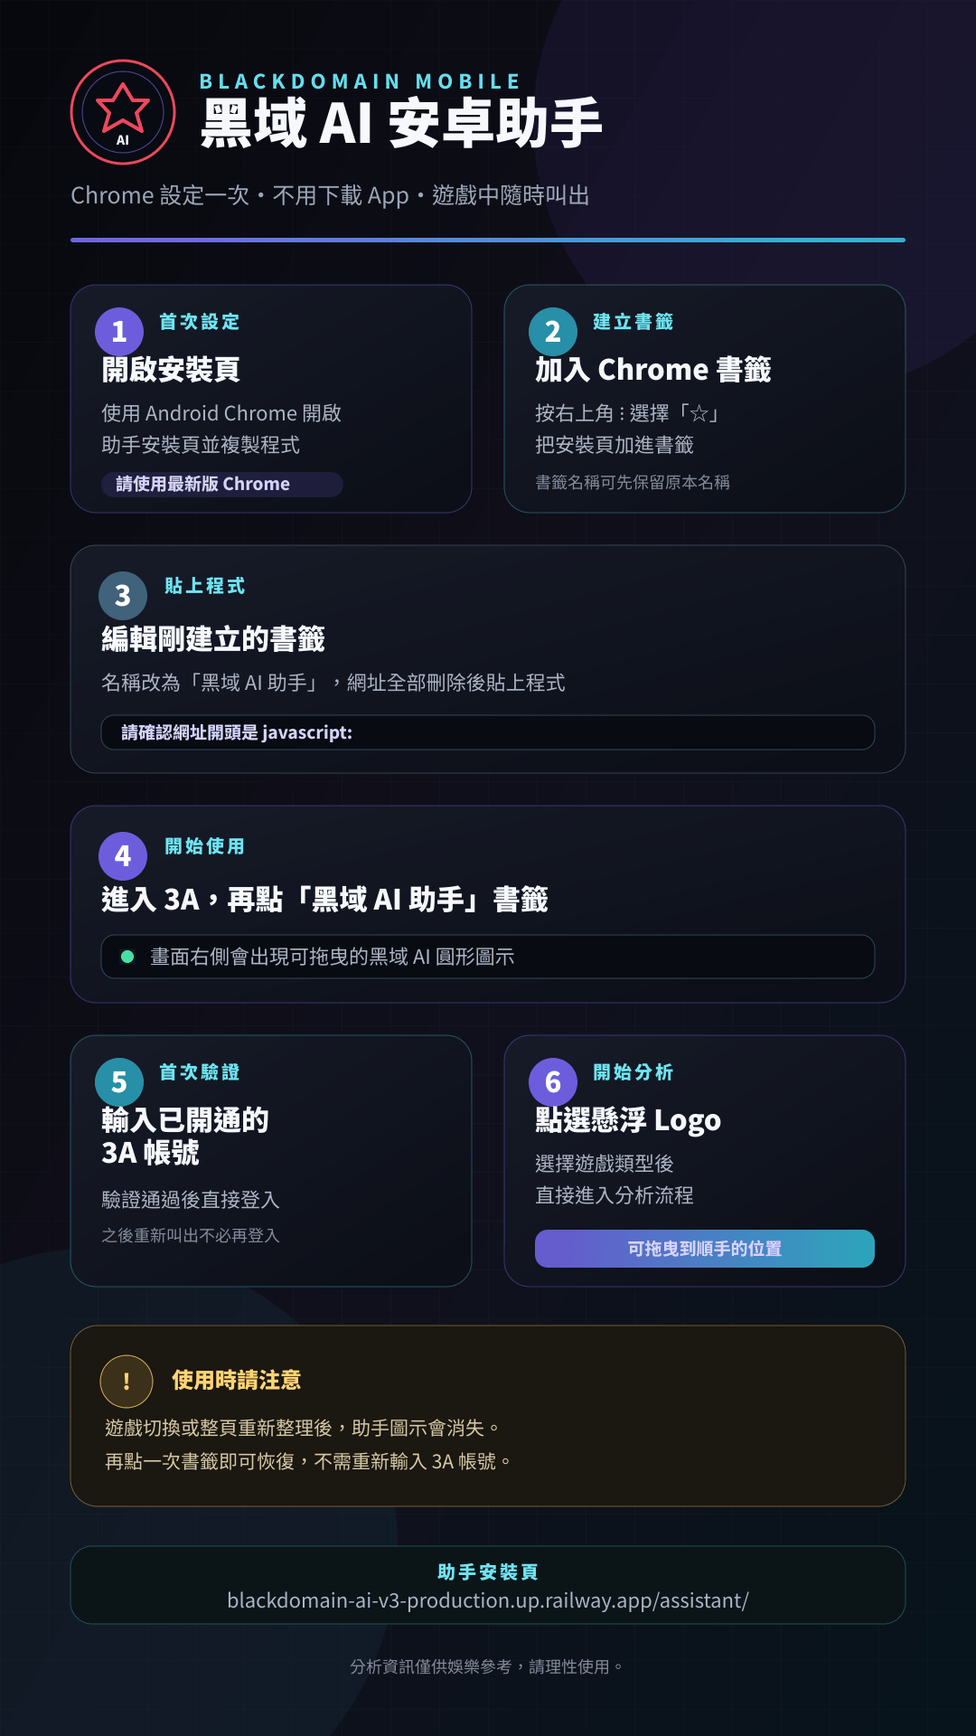
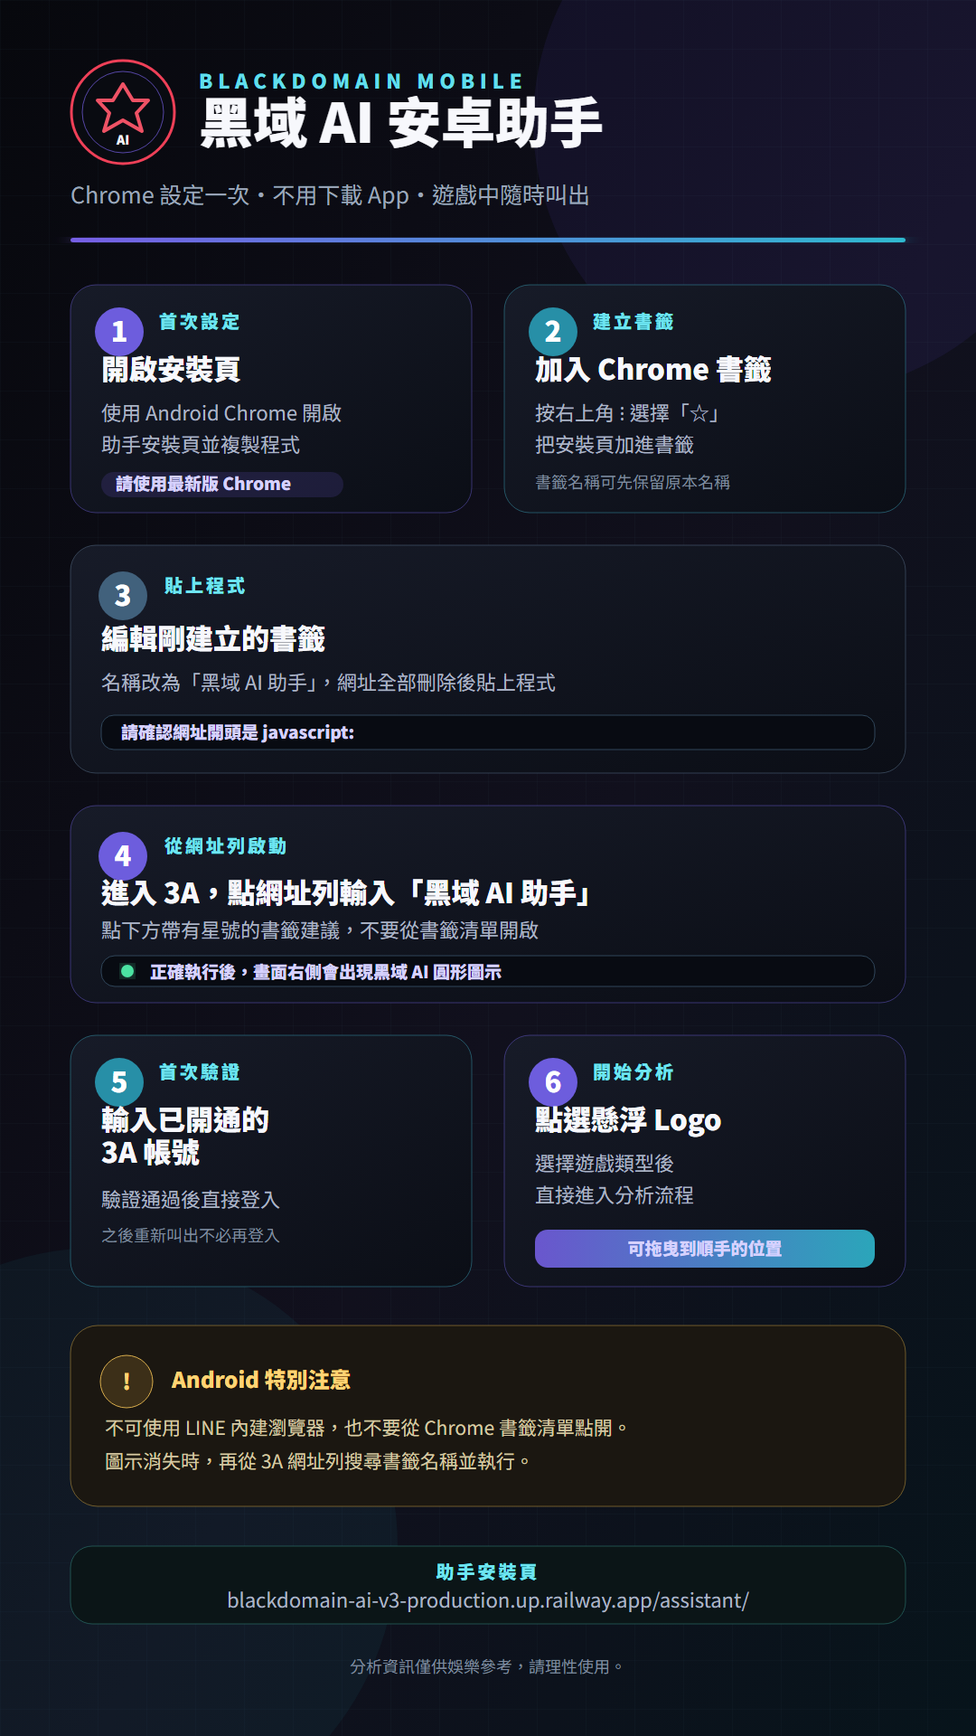
Fix Android assistant launch and ATG recovery

diff --git a/public/assistant/index.html b/public/assistant/index.html
@@ -7,8 +7,8 @@
   <meta name="theme-color" content="#07080c">
   <title>黑域 AI｜一鍵懸浮助手</title>
   <style>
-    *{box-sizing:border-box}body{margin:0;min-height:100vh;padding:calc(24px + env(safe-area-inset-top)) 20px calc(30px + env(safe-area-inset-bottom));background:radial-gradient(circle at 50% 0,#281016,#090b10 42%,#050609);color:#f7f8fb;font-family:system-ui,-apple-system,"Noto Sans TC",sans-serif}.wrap{width:min(100%,560px);margin:auto}.brand{display:flex;align-items:center;gap:13px;margin-bottom:28px}.brand img{width:58px;height:58px;border-radius:50%;box-shadow:0 0 28px #8d1c2d}.brand small{display:block;color:#ff6576;letter-spacing:.14em;font-size:10px}.brand b{display:block;margin-top:4px;font-size:20px}h1{margin:0;font-size:30px;line-height:1.2}.lead{margin:12px 0 24px;color:#aeb3be;line-height:1.7}.card{padding:20px;border:1px solid #3b3036;border-radius:20px;background:rgba(12,14,20,.92);box-shadow:0 24px 70px #000}.card h2{margin:0 0 14px;font-size:18px}.code{width:100%;height:86px;padding:12px;border:1px solid #343944;border-radius:12px;background:#07090d;color:#aeb5c2;resize:none;font-size:11px}.copy{width:100%;height:50px;margin-top:12px;border:0;border-radius:13px;background:linear-gradient(135deg,#ff5368,#b9142e);color:white;font-size:15px;font-weight:900}.status{min-height:20px;margin:9px 0 0;color:#6ff0bd;font-size:12px}.steps{margin-top:18px;padding:20px;border:1px solid #272c35;border-radius:18px;background:#090c12}.steps h2{margin:0 0 12px;font-size:17px}.steps ol{margin:0;padding-left:22px;color:#c3c7d0;line-height:1.9}.note{margin-top:18px;color:#727986;font-size:11px;line-height:1.65}.launch,.guide-download{display:block;margin-top:16px;padding:15px;border:1px solid #4a2730;border-radius:13px;color:#fff;text-align:center;text-decoration:none;font-weight:800}.guide{margin-top:18px;padding:12px;border:1px solid #272c35;border-radius:18px;background:#090c12}.guide img{display:block;width:100%;height:auto;border-radius:12px}.guide-download{margin:12px 0 0;border-color:#3c4657;background:#111620}
+    *{box-sizing:border-box}body{margin:0;min-height:100vh;padding:calc(24px + env(safe-area-inset-top)) 20px calc(30px + env(safe-area-inset-bottom));background:radial-gradient(circle at 50% 0,#281016,#090b10 42%,#050609);color:#f7f8fb;font-family:system-ui,-apple-system,"Noto Sans TC",sans-serif}.wrap{width:min(100%,560px);margin:auto}.brand{display:flex;align-items:center;gap:13px;margin-bottom:28px}.brand img{width:58px;height:58px;border-radius:50%;box-shadow:0 0 28px #8d1c2d}.brand small{display:block;color:#ff6576;letter-spacing:.14em;font-size:10px}.brand b{display:block;margin-top:4px;font-size:20px}h1{margin:0;font-size:30px;line-height:1.2}.lead{margin:12px 0 24px;color:#aeb3be;line-height:1.7}.card{padding:20px;border:1px solid #3b3036;border-radius:20px;background:rgba(12,14,20,.92);box-shadow:0 24px 70px #000}.card h2{margin:0 0 14px;font-size:18px}.code{width:100%;height:86px;padding:12px;border:1px solid #343944;border-radius:12px;background:#07090d;color:#aeb5c2;resize:none;font-size:11px}.copy{width:100%;height:50px;margin-top:12px;border:0;border-radius:13px;background:linear-gradient(135deg,#ff5368,#b9142e);color:white;font-size:15px;font-weight:900}.status{min-height:20px;margin:9px 0 0;color:#6ff0bd;font-size:12px}.steps{margin-top:18px;padding:20px;border:1px solid #272c35;border-radius:18px;background:#090c12}.steps.android{border-color:#315b63}.steps h2{margin:0 0 12px;font-size:17px}.steps ol{margin:0;padding-left:22px;color:#c3c7d0;line-height:1.9}.warning{margin:14px 0 0;padding:12px 14px;border:1px solid #8b692a;border-radius:12px;background:#211b0f;color:#ffd77e;font-size:13px;line-height:1.65}.note{margin-top:18px;color:#9299a6;font-size:12px;line-height:1.65}.launch,.guide-download{display:block;margin-top:16px;padding:15px;border:1px solid #4a2730;border-radius:13px;color:#fff;text-align:center;text-decoration:none;font-weight:800}.guide{margin-top:18px;padding:12px;border:1px solid #272c35;border-radius:18px;background:#090c12}.guide img{display:block;width:100%;height:auto;border-radius:12px}.guide-download{margin:12px 0 0;border-color:#3c4657;background:#111620}
   </style>
 </head>
-<body><main class="wrap"><div class="brand"><img src="/brand/blackdomain-ai-logo.png" alt="黑域 AI"><div><small>BLACKDOMAIN MOBILE TOOL</small><b>黑域 AI 懸浮助手</b></div></div><h1>一鍵放進遊戲頁面</h1><p class="lead">不需 Expo Go。首次建立書籤後，在 3A 首頁或進入遊戲後點一下，都能顯示可拖曳的黑域 AI Logo。</p><section class="card"><h2>複製助手書籤程式</h2><textarea id="code" class="code" readonly></textarea><button id="copy" class="copy" type="button">複製書籤程式</button><p id="status" class="status"></p></section><section class="steps"><h2>iPhone Safari 設定</h2><ol><li>先將本頁加入書籤。</li><li>進入 Safari 書籤並編輯剛建立的書籤。</li><li>名稱改為「黑域 AI 助手」，網址全部刪除後貼上剛複製的程式。</li><li>開啟 3A 或遊戲頁，再從書籤點「黑域 AI 助手」。</li></ol><a class="launch" href="https://sn058.3a1788.bet/" rel="noopener noreferrer">前往 3A 測試</a></section><section class="guide"><img src="/assistant/blackdomain-assistant-guide.png" alt="黑域 AI iPhone 手機助手操作步驟"><a class="guide-download" href="/assistant/blackdomain-assistant-guide.png" download>下載 iPhone 操作示意圖</a></section><section class="guide"><img src="/assistant/blackdomain-assistant-android-guide.png" alt="黑域 AI Android 手機助手操作步驟"><a class="guide-download" href="/assistant/blackdomain-assistant-android-guide.png" download>下載 Android 操作示意圖</a></section><p class="note">遊戲切換或整頁重新整理後，再點一次書籤即可恢復助手；會員登入狀態會保留。</p></main><script>let device=localStorage.getItem("blackdomain_assistant_device");if(!device){const bytes=crypto.getRandomValues(new Uint8Array(24));device=Array.from(bytes,value=>value.toString(16).padStart(2,"0")).join("");localStorage.setItem("blackdomain_assistant_device",device)}const loader=`https://blackdomain-ai-v3-production.up.railway.app/assistant/bookmarklet.js?v=20260907.03&device=${encodeURIComponent(device)}`;const code=`javascript:(()=>{if(document.getElementById('blackdomain-floating-assistant')){document.getElementById('blackdomain-floating-assistant').remove();return}const s=document.createElement('script');s.src='${loader}&t='+Date.now();document.documentElement.appendChild(s)})()`;document.getElementById("code").value=code;document.getElementById("copy").addEventListener("click",async()=>{try{await navigator.clipboard.writeText(code);document.getElementById("status").textContent="已複製，請貼到書籤的網址欄位。"}catch{document.getElementById("code").select();document.execCommand("copy");document.getElementById("status").textContent="已複製。"}});</script></body>
+<body><main class="wrap"><div class="brand"><img src="/brand/blackdomain-ai-logo.png" alt="黑域 AI"><div><small>BLACKDOMAIN MOBILE TOOL</small><b>黑域 AI 懸浮助手</b></div></div><h1>一鍵放進遊戲頁面</h1><p class="lead">不需 Expo Go。首次建立書籤後，可在 3A 或遊戲頁叫出可拖曳的黑域 AI Logo；Android 與 iPhone 的啟動方式不同。</p><section class="card"><h2>複製助手書籤程式</h2><textarea id="code" class="code" readonly></textarea><button id="copy" class="copy" type="button">複製書籤程式</button><p id="status" class="status"></p></section><section class="steps android"><h2>Android Chrome 設定與啟動</h2><ol><li>務必使用 Chrome 開啟本頁，不可使用 LINE 內建瀏覽器。</li><li>將本頁加入書籤，再編輯該書籤。</li><li>名稱改成「黑域 AI 助手」，網址全部刪除後貼上剛複製的程式。</li><li>開啟 3A 或遊戲頁，點一下 Chrome 網址列。</li><li>輸入「黑域 AI 助手」，點選下方帶有星號的書籤建議，Logo 才會出現。</li></ol><p class="warning">Android 不能從「⋮ → 書籤」清單直接點開，否則助手不會在目前的 3A 頁面執行。</p><a class="launch" href="https://sn058.3a1788.bet/" rel="noopener noreferrer">前往 3A 測試</a></section><section class="steps"><h2>iPhone Safari 設定</h2><ol><li>先將本頁加入書籤。</li><li>進入 Safari 書籤並編輯剛建立的書籤。</li><li>名稱改為「黑域 AI 助手」，網址全部刪除後貼上剛複製的程式。</li><li>開啟 3A 或遊戲頁，再從書籤點「黑域 AI 助手」。</li></ol></section><section class="guide"><img src="/assistant/blackdomain-assistant-android-guide.png" alt="黑域 AI Android 手機助手操作步驟"><a class="guide-download" href="/assistant/blackdomain-assistant-android-guide.png" download>下載 Android 操作示意圖</a></section><section class="guide"><img src="/assistant/blackdomain-assistant-guide.png" alt="黑域 AI iPhone 手機助手操作步驟"><a class="guide-download" href="/assistant/blackdomain-assistant-guide.png" download>下載 iPhone 操作示意圖</a></section><p class="note">遊戲切換或整頁重新整理後，Android 請再次從網址列搜尋並執行書籤；iPhone 再點一次 Safari 書籤即可恢復。會員登入狀態會保留。</p></main><script>let device=localStorage.getItem("blackdomain_assistant_device");if(!device){const bytes=crypto.getRandomValues(new Uint8Array(24));device=Array.from(bytes,value=>value.toString(16).padStart(2,"0")).join("");localStorage.setItem("blackdomain_assistant_device",device)}const loader=`https://blackdomain-ai-v3-production.up.railway.app/assistant/bookmarklet.js?v=20260907.03&device=${encodeURIComponent(device)}`;const code=`javascript:(()=>{if(document.getElementById('blackdomain-floating-assistant')){document.getElementById('blackdomain-floating-assistant').remove();return}const s=document.createElement('script');s.src='${loader}&t='+Date.now();s.onerror=()=>alert('黑域 AI 助手載入失敗，請確認網路後重試');document.documentElement.appendChild(s)})()`;document.getElementById("code").value=code;document.getElementById("copy").addEventListener("click",async()=>{try{await navigator.clipboard.writeText(code);document.getElementById("status").textContent=/Android/i.test(navigator.userAgent)?"已複製。貼入書籤後，請在 3A 網址列搜尋「黑域 AI 助手」啟動。":"已複製，請貼到書籤的網址欄位。"}catch{document.getElementById("code").select();document.execCommand("copy");document.getElementById("status").textContent="已複製。"}});</script></body>
 </html>

diff --git a/extensions/mb-relay/atg-packet-worker.js b/extensions/mb-relay/atg-packet-worker.js
@@ -31,6 +31,7 @@
   const lastFullScans = new Map();
   let lobbySocket = null;
   let activeLobbyToken = "";
+  let recoveryLobbyUrl = "";
   let lobbyGames = [];
   let bootstrapPromise = null;
   let hostStartedAt = Date.now();
@@ -126,6 +127,7 @@
       if (!lobby) return null;
       const token = String(lobby.searchParams.get("t") || "").trim();
       if (!token || lobby.hostname !== current.hostname) return null;
+      recoveryLobbyUrl = lobby.href;
       return {
         token: activeLobbyToken || token,
         locale: String(lobby.searchParams.get("locale") || current.searchParams.get("locale") || "zh-TW"),
@@ -478,10 +480,61 @@
   }
 
   function findLobbyGame(games, target) {
-    return objectCandidates(games, 4).find((candidate) => (
-      String(candidate.checksum || candidate.gameId || candidate.id || "") === target.checksum
-      || String(candidate.code || candidate.gameCode || "").toLowerCase() === target.code
-    ));
+    const aliases = {
+      g1001: ["戰神賽特1", "戰神賽特 1", "egyptian mythology", "erase any times 1"],
+      g1005: ["戰神賽特2", "戰神賽特 2", "golden seth", "erase any times 2"],
+      g1007: ["古神巴風特", "hades", "erase cluster times 1"],
+      g1008: ["赤三國", "scarlet three kingdoms"],
+      g1009: ["虎小妹", "tiger princess"],
+    }[target.code] || [target.name];
+    return objectCandidates(games, 4).find((candidate) => {
+      const checksum = String(candidate.checksum || candidate.gameChecksum || candidate.game_checksum || candidate.gameId || candidate.id || "");
+      const code = String(candidate.code || candidate.gameCode || candidate.game_code || "").toLowerCase();
+      const label = [
+        candidate.name,
+        candidate.gameName,
+        candidate.game_name,
+        candidate.title,
+        candidate.displayName,
+        candidate.slug,
+        candidate.gameSlug,
+        candidate.path,
+        candidate.url,
+      ]
+        .filter(Boolean)
+        .join(" ")
+        .toLowerCase();
+      const normalizedLabel = label.replace(/[^a-z0-9\u3400-\u9fff]+/g, "");
+      const sethOneByCurrentName = target.code === "g1001"
+        && normalizedLabel.includes("戰神賽特")
+        && !/(戰神賽特2|goldenseth|eraseanytimes2|g1005)/.test(normalizedLabel);
+      return checksum === target.checksum
+        || code === target.code
+        || sethOneByCurrentName
+        || aliases.some((alias) => normalizedLabel.includes(alias.toLowerCase().replace(/[^a-z0-9\u3400-\u9fff]+/g, "")));
+    });
+  }
+
+  function upstreamReason(label, response) {
+    const status = Number(response?.status) || 0;
+    const message = String(response?.message || response?.error || "").trim();
+    return `${label} rejected${status ? ` (${status}${message ? `: ${message}` : ""})` : ""}`;
+  }
+
+  function rememberLaunchLobby(redirect, context) {
+    try {
+      const rawLobbyUrl = redirect.searchParams.get("goback_url");
+      if (!rawLobbyUrl) return;
+      const lobby = new URL(rawLobbyUrl, redirect.href);
+      if (lobby.hostname !== window.location.hostname || !lobby.pathname.includes("/egames/lobby/game/")) return;
+      const token = String(lobby.searchParams.get("t") || "").trim();
+      if (!token) return;
+      recoveryLobbyUrl = lobby.href;
+      activeLobbyToken = token;
+      context.token = token;
+    } catch {
+      // A launch without a return URL can still use the response token.
+    }
   }
 
   async function initializeLobby(context) {
@@ -492,26 +545,29 @@
       token: lobbyToken,
       clientType: CLIENT_TYPE,
     }));
-    if (!initial || Number(initial.status) !== 200) throw new Error("lobbyInitial rejected");
+    if (!initial || Number(initial.status) !== 200) throw new Error(upstreamReason("lobbyInitial", initial));
     if (initial.token) lobbyToken = String(initial.token);
     activeLobbyToken = lobbyToken;
+    context.token = lobbyToken;
     lobbyGames = initial.content?.games ?? initial.games ?? initial.content ?? [];
   }
 
   async function createLaunch(target, context) {
     if (!lobbySocket?.connected) await initializeLobby(context);
     const game = findLobbyGame(lobbyGames, target);
-    const code = String(game?.code ?? game?.gameCode ?? target.code);
+    if (!game) throw new Error(`${target.name} unavailable in ATG lobby`);
+    const code = String(game.code ?? game.gameCode ?? target.code);
     const played = parsePlainResponse(await emitAck(lobbySocket, "lobbyPlay", {
       token: activeLobbyToken,
       clientType: CLIENT_TYPE,
       code,
     }));
     if (!played || Number(played.status) !== 200 || !played.redirectUrl) {
-      throw new Error(`${target.name} launch rejected`);
+      throw new Error(`${target.name} ${upstreamReason("launch", played)}`);
     }
     if (played.token) activeLobbyToken = String(played.token);
     const redirect = new URL(played.redirectUrl, window.location.href);
+    rememberLaunchLobby(redirect, context);
     const token = String(redirect.searchParams.get("t") || "").trim();
     if (!token) throw new Error(`${target.name} launch token missing`);
     return { target, token };
@@ -521,6 +577,9 @@
     let state = null;
     try {
       setHostStatus(target, "正在連線…");
+      // Lobby tickets rotate after launches. Start each target from the
+      // latest ticket so one rejected game cannot poison all later games.
+      await initializeLobby(context);
       const launch = await createLaunch(target, context);
       state = await connectGame(launch, context);
       const lastFullScanAt = Number(lastFullScans.get(target.name)) || 0;
@@ -548,6 +607,11 @@
         lobbySocket?.close();
         lobbySocket = null;
       }
+      if (/lobbyInitial rejected|launch rejected/i.test(String(error?.message || ""))) {
+        window.dispatchEvent(new CustomEvent("BLACKDOMAIN_ELECTRONIC_SESSION_STALE", {
+          detail: { reason: "lobby-ticket-rejected", recoveryLobbyUrl },
+        }));
+      }
     } finally {
       state?.socket?.close();
       gameStates.delete(target.name);
@@ -559,7 +623,6 @@
     bootstrapPromise = (async () => {
       const context = parsePageContext();
       if (!context) throw new Error("ATG lobby token unavailable");
-      await initializeLobby(context);
       console.info("[BLACKDOMAIN Packet] five-game ATG packet relay active");
       while (!stopping) {
         for (const target of GAME_TARGETS) {

diff --git a/extensions/mb-relay/background.js b/extensions/mb-relay/background.js
@@ -9,6 +9,7 @@ const HEARTBEAT_TIMEOUT_MS = 90 * 1000;
 const GAME_DATA_TIMEOUT_MS = 3 * 60 * 1000;
 const RELOAD_COOLDOWN_MS = 5 * 60 * 1000;
 const ATG_SOFT_REFRESH_COOLDOWN_MS = 30 * 1000;
+const ATG_TOKEN_RECOVERY_COOLDOWN_MS = 30 * 1000;
 const SESSION_NOTICE_COOLDOWN_MS = 60 * 1000;
 const RELAY_TABS = [
   { kind: "mb", url: "https://mbracing.cc/*" },
@@ -85,6 +86,8 @@ async function rememberHeartbeat(kind, tabId, dataAt = 0) {
       reloadDataAt: Number(previous.reloadDataAt) || 0,
       reloadAttempts: Number(previous.reloadAttempts) || 0,
       lastSoftRefreshAt: Number(previous.lastSoftRefreshAt) || 0,
+      lastTokenRecoveryAt: Number(previous.lastTokenRecoveryAt) || 0,
+      recoveryLobbyUrl: String(previous.recoveryLobbyUrl || ""),
       firstSeenAt: Number(previous.firstSeenAt) || Date.now(),
     },
   });
@@ -107,6 +110,36 @@ async function requestAtgSoftRefresh(tabId) {
       type: "BLACKDOMAIN_ATG_SOFT_REFRESH",
     });
     return Boolean(response?.ok);
+  } catch {
+    return false;
+  }
+}
+
+function validAtgRecoveryUrl(value, now) {
+  try {
+    const lobby = new URL(value);
+    if (lobby.hostname !== "play.godeebxp.com" || !lobby.pathname.includes("/egames/lobby/game/")) return "";
+    if (!lobby.searchParams.get("t")) return "";
+    lobby.searchParams.set("blackdomain_recovered_at", String(now));
+    return lobby.href;
+  } catch {
+    return "";
+  }
+}
+
+async function recoverAtgToken(tab, health, key, recoveryUrl = "") {
+  const now = Date.now();
+  if (now - Number(health.lastTokenRecoveryAt || 0) < ATG_TOKEN_RECOVERY_COOLDOWN_MS) return false;
+  const saved = await chrome.storage.local.get("blackdomainAtgRecoveryLobbyUrl");
+  const lobbyUrl = validAtgRecoveryUrl(recoveryUrl || saved.blackdomainAtgRecoveryLobbyUrl, now);
+  if (!lobbyUrl) return false;
+  await chrome.storage.local.set({
+    blackdomainAtgRecoveryLobbyUrl: lobbyUrl,
+    [key]: { ...health, kind: "electronic", lastTokenRecoveryAt: now, recoveryLobbyUrl: lobbyUrl },
+  });
+  try {
+    await chrome.tabs.update(tab.id, { url: lobbyUrl });
+    return true;
   } catch {
     return false;
   }
@@ -264,12 +297,10 @@ chrome.runtime.onMessage.addListener((message, sender, sendResponse) => {
       .then(async (saved) => {
         const health = saved[key] || {};
         const now = Date.now();
-        if (now - Number(health.lastSoftRefreshAt || 0) < ATG_SOFT_REFRESH_COOLDOWN_MS) {
-          return false;
-        }
-        await chrome.storage.local.set({
-          [key]: { ...health, kind: "electronic", lastSoftRefreshAt: now },
-        });
+        const recoveryUrl = validAtgRecoveryUrl(message.recoveryLobbyUrl, now);
+        if (recoveryUrl && await recoverAtgToken(tab, health, key, recoveryUrl)) return true;
+        if (now - Number(health.lastSoftRefreshAt || 0) < ATG_SOFT_REFRESH_COOLDOWN_MS) return false;
+        await chrome.storage.local.set({ [key]: { ...health, kind: "electronic", lastSoftRefreshAt: now } });
         return requestAtgSoftRefresh(tab.id);
       })
       .then((recovered) => sendResponse({ ok: Boolean(recovered) }))

diff --git a/scripts/smoke-test.js b/scripts/smoke-test.js
@@ -1583,7 +1583,7 @@ async function main() {
   for (const expected of ["blackdomain-floating-assistant", "attachShadow", "pointermove", "mobile-login?embed=1"]) {
     if (!assistantBookmarkletSource.includes(expected)) throw new Error(`Floating assistant bookmarklet is missing: ${expected}`);
   }
-  for (const expected of ["複製書籤程式", "iPhone Safari 設定", "/assistant/bookmarklet.js"]) {
+  for (const expected of ["複製書籤程式", "Android Chrome 設定與啟動", "帶有星號的書籤建議", "不可使用 LINE 內建瀏覽器", "iPhone Safari 設定", "/assistant/bookmarklet.js"]) {
     if (!assistantInstallSource.includes(expected)) throw new Error(`Floating assistant installer is missing: ${expected}`);
   }
   for (const expected of ['req.query?.embed === "1"', "frame-ancestors https:"]) {
@@ -1832,8 +1832,8 @@ async function main() {
     throw new Error("Electronic watched-room route is not registered");
   }
   const electronicRelayManifest = require("../extensions/mb-relay/manifest.json");
-  if (electronicRelayManifest.version !== "2.11.5") {
-    throw new Error("Electronic relay extension version must be 2.11.5");
+  if (electronicRelayManifest.version !== "2.11.7") {
+    throw new Error("Electronic relay extension version must be 2.11.7");
   }
   if (!electronicRelayManifest.permissions.includes("alarms")) {
     throw new Error("Relay extension must enable the independent background watchdog alarm");
@@ -1855,6 +1855,9 @@ async function main() {
     "BLACKDOMAIN_RELAY_PING",
     "BLACKDOMAIN_ATG_SOFT_REFRESH",
     "requestAtgSoftRefresh",
+    "recoverAtgToken",
+    "validAtgRecoveryUrl",
+    "chrome.tabs.update(tab.id, { url: lobbyUrl })",
     "chrome.alarms.onAlarm",
     "chrome.tabs.reload",
     "GAME_DATA_TIMEOUT_MS",
@@ -1863,12 +1866,6 @@ async function main() {
     if (!relayBackgroundSource.includes(expected)) {
       throw new Error(`Relay background watchdog is missing: ${expected}`);
     }
-  }
-  if (
-    relayBackgroundSource.includes("recoverAtgToken")
-    || relayBackgroundSource.includes("chrome.tabs.update(tab.id, { url: lobbyUrl })")
-  ) {
-    throw new Error("ATG relay recovery must never reload or navigate the whole page");
   }
   for (const expected of [
     "clickAtgCanvas",
@@ -1900,6 +1897,11 @@ async function main() {
   for (const expected of [
     "lobbyInitial",
     "lobbyPlay",
+    "rememberLaunchLobby",
+    "upstreamReason",
+    "unavailable in ATG lobby",
+    "sethOneByCurrentName",
+    "candidate.game_code",
     "getSlotTables",
     "getSlotTableDetail",
     'crypto.subtle.decrypt(',
@@ -1934,11 +1936,7 @@ async function main() {
       throw new Error(`ATG five-game packet worker is missing: ${expected}`);
     }
   }
-  for (const unstableRetry of [
-    "TARGET_SCAN_MAX_ATTEMPTS",
-    "rememberLaunchLobby",
-    "lobby-ticket-rejected",
-  ]) {
+  for (const unstableRetry of ["TARGET_SCAN_MAX_ATTEMPTS"]) {
     if (packetWorkerSource.includes(unstableRetry)) {
       throw new Error(`ATG stable packet core must not retain: ${unstableRetry}`);
     }
